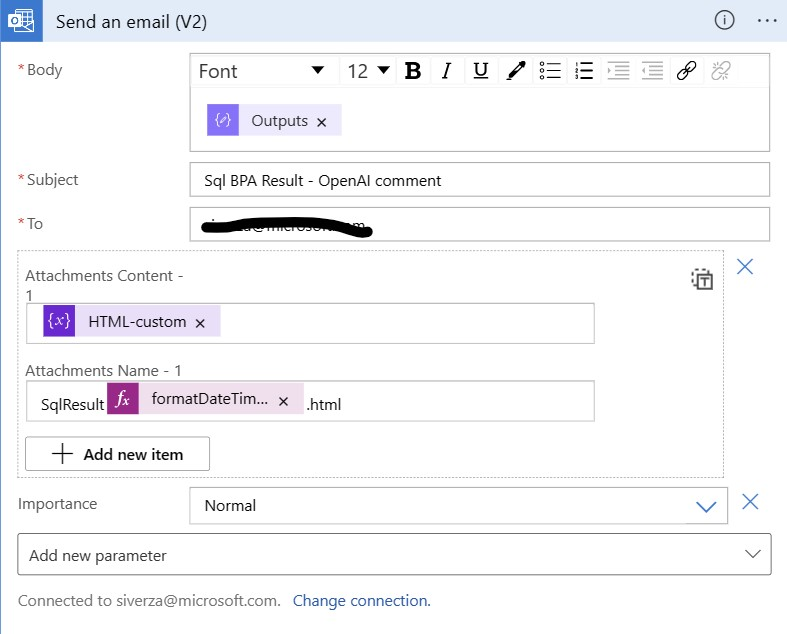
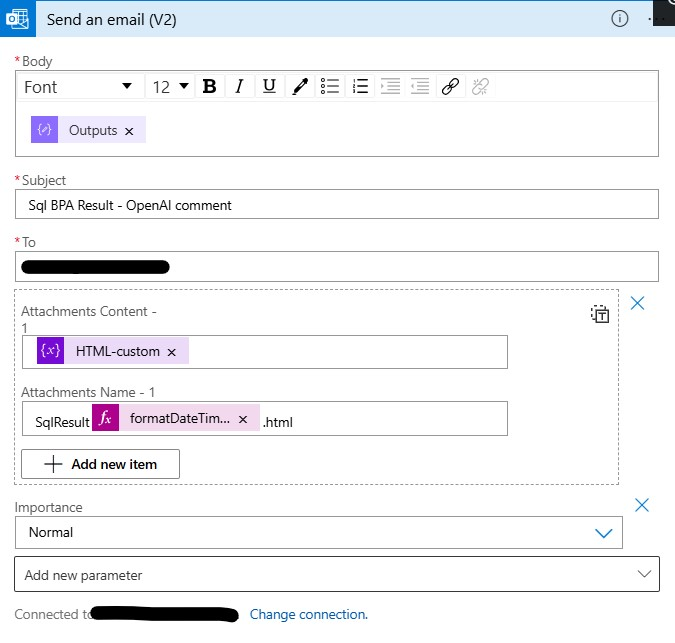
readme

diff --git a/Arc-SQL BPA/README.md b/Arc-SQL BPA/README.md
@@ -89,10 +89,10 @@ Now configure the HTTP Connector for OpenAI Connection following this configurat
 
 ![Sentinel HTTP Connector](./images/http-connector.jpg)
 
-The last configuration is change the broken module __Send an email (V2)__ with a new one :
+The last configuration is change the broken module __Send an email (V2)__ with a new one, add the attachment and customize the file name :
 
-Before
+Before <br>
 ![Sentinel Add Content](./images/sendEmail-broken.jpg)
 
-After
+After <br>
 ![Sentinel Add Content](./images/send-email2.jpg)
